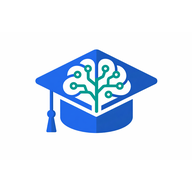
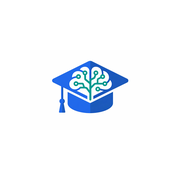
feat(frontend): refresh app branding and mobile UI layout (frontend)
Update frontend branding and responsiveness by switching the main favicon to `/logo.png` and replacing app/PWA icon assets for a consistent identity across browsers and devices.
Also improve small-screen usability by making `UserDetailsModal` footer actions stack and expand full-width on mobile, and remove restrictive `#root` sizing styles so layouts can use full viewport width.feat(frontend): refresh app branding and mobile UI layout

Update frontend branding and responsiveness by switching the main favicon to `/logo.png` and replacing app/PWA icon assets for a consistent identity across browsers and devices.
Also improve small-screen usability by making `UserDetailsModal` footer actions stack and expand full-width on mobile, and remove restrictive `#root` sizing styles so layouts can use full viewport width.

Changed region(s): [[0.1667, 0.25, 0.8333, 0.6944]]

diff --git a/frontend/index.html b/frontend/index.html
@@ -3,7 +3,7 @@
 
 <head>
   <meta charset="UTF-8" />
-  <link rel="icon" type="image/svg+xml" href="/vite.svg" />
+  <link rel="icon" type="image/png" href="/logo.png" />
   <link rel="alternate icon" href="/favicon.ico" />
   <meta name="viewport" content="width=device-width, initial-scale=1.0" />
   <meta http-equiv="Cache-Control" content="no-cache, no-store, must-revalidate" />

diff --git a/frontend/src/App.css b/frontend/src/App.css
@@ -1,9 +1,3 @@
-#root {
-  max-width: 1280px;
-  margin: 0 auto;
-  padding: 2rem;
-  text-align: center;
-}
 
 .logo {
   height: 6em;
